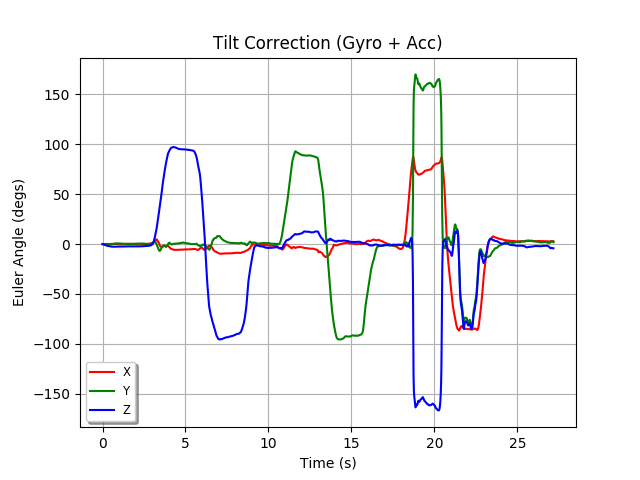
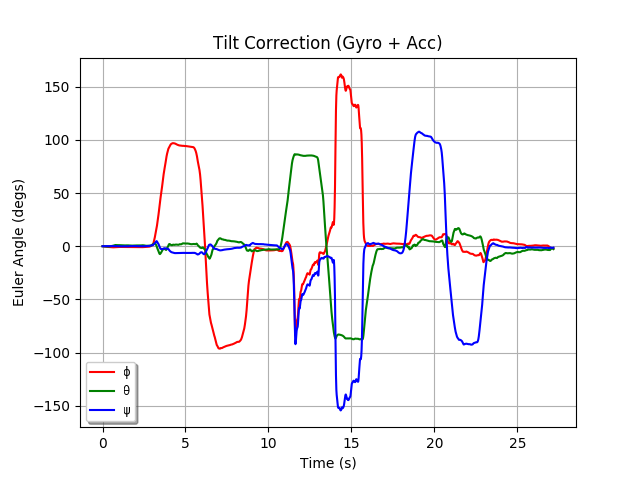
fix data for correct orientation

diff --git a/data_corrector.py b/data_corrector.py
@@ -82,7 +82,7 @@ def reading_to_qtrn(reading, prev_sample_time):
     """converts a numpy euler rotation sample [time x y z] and prev sample time to a quaternion array [a b c d]"""
     sample_time = float(reading[0] - prev_sample_time)
     sample_time = sample_time if sample_time>0 else (1/256) # first reading assumes 256Hz
-    rot_angle = np.linalg.norm(reading[1:]) * sample_time
+    rot_angle = -np.linalg.norm(reading[1:]) * sample_time
     rot_axis = np.repeat(1/np.linalg.norm(reading[1:]),3) * reading[1:]
     return axis_angle_to_qtrn(rot_axis, rot_angle)
 
@@ -90,9 +90,9 @@ def reading_to_qtrn(reading, prev_sample_time):
 def qtrn_to_euler(qtrn):
     """converts a numpy quaternion array [a b c d] to a raw euler angle array [x y z]"""
     (a, b, c, d) = qtrn
-    x = np.arcsin(2*b*c + 2*d*a)
-    y = np.arctan2(2*c*a-2*b*d, 1 - 2*(c**2) - 2*(d**2))
-    z = np.arctan2(2*b*a-2*c*d , 1 - 2*(b**2) - 2*(d**2))
+    x = np.arctan2(2*c*d - 2*a*b, 2*(a**2) + 2*(d**2) - 1)
+    y = - np.arcsin(2*b*d + 2*c*a)
+    z = np.arctan2(2*b*c - 2*a*d , 2*(a**2) + 2*(b**2) - 1)
     return np.array([x, y, z])
 
 def qtrn_conj(qtrn):
@@ -142,7 +142,7 @@ def gyro_dead_reckoning(imu_data):
 
 def gyro_acc_positioning(imu_data):
     """computes current position using data both from the gyroscope and accelerometer"""
-    ALPHA_ACC = 0.01
+    ALPHA_ACC = 0.001
 
     print(">>> Tilt Correction <<<")
     curr_pos = np.array([1,0,0,0], dtype=np.float32)
@@ -163,25 +163,25 @@ def gyro_acc_positioning(imu_data):
         ### calculate initial position only using the gyro
         delta_qtrn = reading_to_qtrn(point[gyro_range], prev_sample_time)
         prev_sample_time = point[0]
-        curr_pos = qtrn_mult(delta_qtrn, curr_pos)
+        curr_pos = qtrn_mult(curr_pos, delta_qtrn)
 
         ### PITCH/TILT CORRECTION
         ### convert acc data to the global frame
         acc_qtrn = np.insert(point[acc_range], 0, 0)
         #inv_curr = qtrn_conj(curr_pos) / np.repeat(np.linalg.norm(curr_pos)**2,4)
-        acc_qtrn = qtrn_mult(qtrn_mult(curr_pos, acc_qtrn), qtrn_conj(curr_pos))
+        acc_qtrn = qtrn_mult(qtrn_mult(qtrn_conj(curr_pos), acc_qtrn), curr_pos)
         acc_vec = acc_qtrn[1:]
         #acc_vec = np.repeat(1/np.linalg.norm(acc_vec),3) * acc_vec
         ### calculate the tilt error
         x, y = acc_vec[0], acc_vec[1]
-        tilt_error_axis = np.array([-y, x, 0])
+        tilt_error_axis = np.array([y, -x, 0])
         tilt_error_axis = np.repeat(1/np.linalg.norm(tilt_error_axis),3) * tilt_error_axis
         cos_ang = np.dot(up_vec, acc_vec)
         # possible rounding errors
         cos_ang = cos_ang if cos_ang > -1 else -1
         cos_ang = cos_ang if cos_ang < +1 else +1
         tilt_error_angle = np.arccos(cos_ang)
-        #print("error angle:",tilt_error_angle)
+        print("error angle:",tilt_error_angle)
         ### Repair tilt using the comp filter
         comp_filter = axis_angle_to_qtrn(tilt_error_axis, -ALPHA_ACC*tilt_error_angle)
         # fix our current estimated position using acceleration data
@@ -199,7 +199,7 @@ def gyro_acc_positioning(imu_data):
 def gyro_acc_mag_positioning(imu_data):
     """corrects for tilt and yaw using the accelerometer and magnetometer"""
     ALPHA_ACC = 0.001
-    ALPHA_YAW = 0.001
+    ALPHA_YAW = 0.0001
 
     print(">>> Tilt and Yaw Correction <<<")
     curr_pos = np.array([1,0,0,0], dtype=np.float32)
@@ -214,7 +214,7 @@ def gyro_acc_mag_positioning(imu_data):
     # take reference measurement for yaw correction
     m_ref = np.insert(imu_data[0,mag_range], 0, 0)
     # transform m_ref to the global frame
-    m_ref = qtrn_mult(qtrn_mult(curr_pos, m_ref), qtrn_conj(curr_pos))
+    m_ref = qtrn_mult(qtrn_mult(qtrn_conj(curr_pos), m_ref), curr_pos)
 
     # time,x,y,z
     gyro_data = []
@@ -226,18 +226,18 @@ def gyro_acc_mag_positioning(imu_data):
         ### calculate initial position only using the gyro
         delta_qtrn = reading_to_qtrn(point[gyro_range], prev_sample_time)
         prev_sample_time = point[0]
-        curr_pos = qtrn_mult(delta_qtrn, curr_pos)
+        curr_pos = qtrn_mult(curr_pos, delta_qtrn)
 
         ### PITCH/TILT CORRECTION
         ### convert acc data to the global frame
         acc_qtrn = np.insert(point[acc_range], 0, 0)
         #inv_curr = qtrn_conj(curr_pos) / np.repeat(np.linalg.norm(curr_pos)**2,4)
-        acc_qtrn = qtrn_mult(qtrn_mult(curr_pos, acc_qtrn), qtrn_conj(curr_pos))
+        acc_qtrn = qtrn_mult(qtrn_mult(qtrn_conj(curr_pos), acc_qtrn), curr_pos)
         acc_vec = acc_qtrn[1:]
         acc_vec = np.repeat(1/np.linalg.norm(acc_vec),3) * acc_vec
         ### calculate the tilt error
         x, y = acc_vec[0], acc_vec[1]
-        tilt_error_axis = np.array([-y, x, 0])
+        tilt_error_axis = np.array([y, -x, 0])
         tilt_error_axis = np.repeat(1/np.linalg.norm(tilt_error_axis),3) * tilt_error_axis
         cos_ang = np.dot(up_vec, acc_vec)
         # possible rounding errors
@@ -254,14 +254,14 @@ def gyro_acc_mag_positioning(imu_data):
         # (this is the inverse of the head orientation!)
         # therefore, we compute q^-1•p•q rather than q•p•q^-1
         mag_qtrn = np.insert(point[mag_range], 0, 0)
-        mag_qtrn = qtrn_mult(qtrn_mult(curr_pos, mag_qtrn), qtrn_conj(curr_pos))
+        mag_qtrn = qtrn_mult(qtrn_mult(qtrn_conj(curr_pos), mag_qtrn), curr_pos)
         # calculate yaw difference
         # z is the up axis, so that is what we yaw around (angle around z was not corrected during tilt correction) 
         # - in our XYZ representation though, WE still see X as the tilt on the graph so the fact that this yaw correction is not applied around the Z axis until this point explains why X drifts in the tilt correction!
         meas_x, meas_y = mag_qtrn[1], mag_qtrn[2]
-        yaw_angle_meas = np.arctan2(meas_y, meas_x)
+        yaw_angle_meas = np.arctan2(meas_x, meas_y)
         real_x, real_y = m_ref[1], m_ref[2]
-        yaw_angle_real = np.arctan2(real_y, real_x)
+        yaw_angle_real = np.arctan2(real_x, real_y)
         yaw_diff = yaw_angle_meas - yaw_angle_real
         # repair yaw drift using complementary filter
         tilt_yaw_axis = np.array([0, 0, 1])
@@ -361,9 +361,9 @@ def save_gyro_fig(name, title, data):
     plt.ylabel("Euler Angle (degs)")
     plt.title(title)
     plt.grid()
-    ax.plot(time_data, x_data, 'r-', label="X")
-    ax.plot(time_data, y_data, 'g-', label="Y")
-    ax.plot(time_data, z_data, 'b-', label="Z")
+    ax.plot(time_data, x_data, 'r-', label="ϕ")
+    ax.plot(time_data, y_data, 'g-', label="θ")
+    ax.plot(time_data, z_data, 'b-', label="ψ")
     legend = ax.legend(loc='lower left', shadow=True, fontsize='small')
     plt.savefig(f"{name}.png")
 
